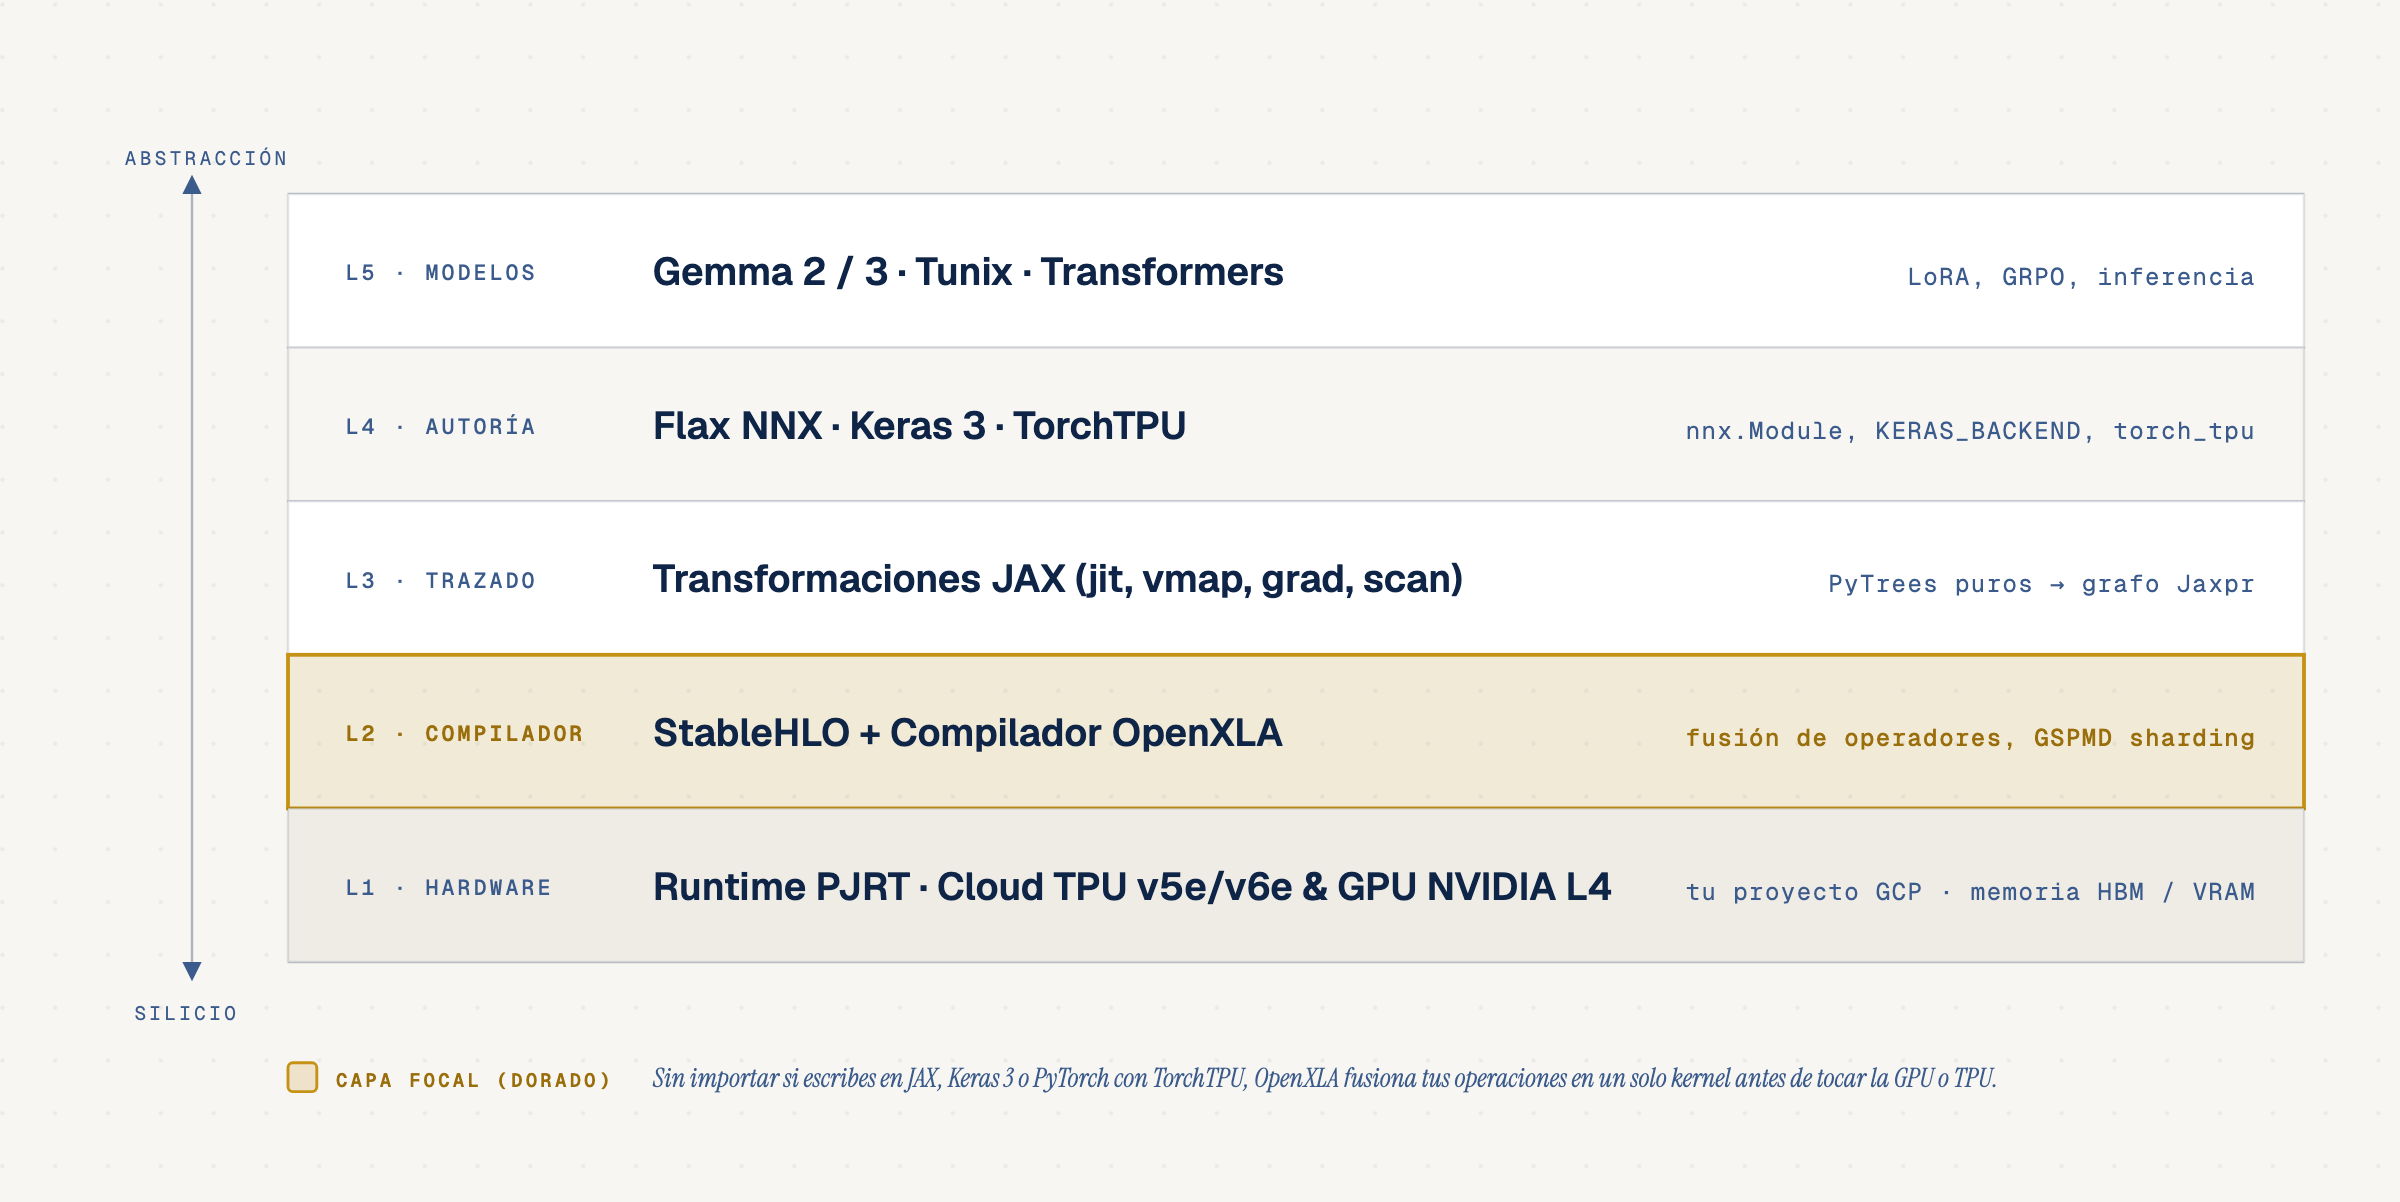
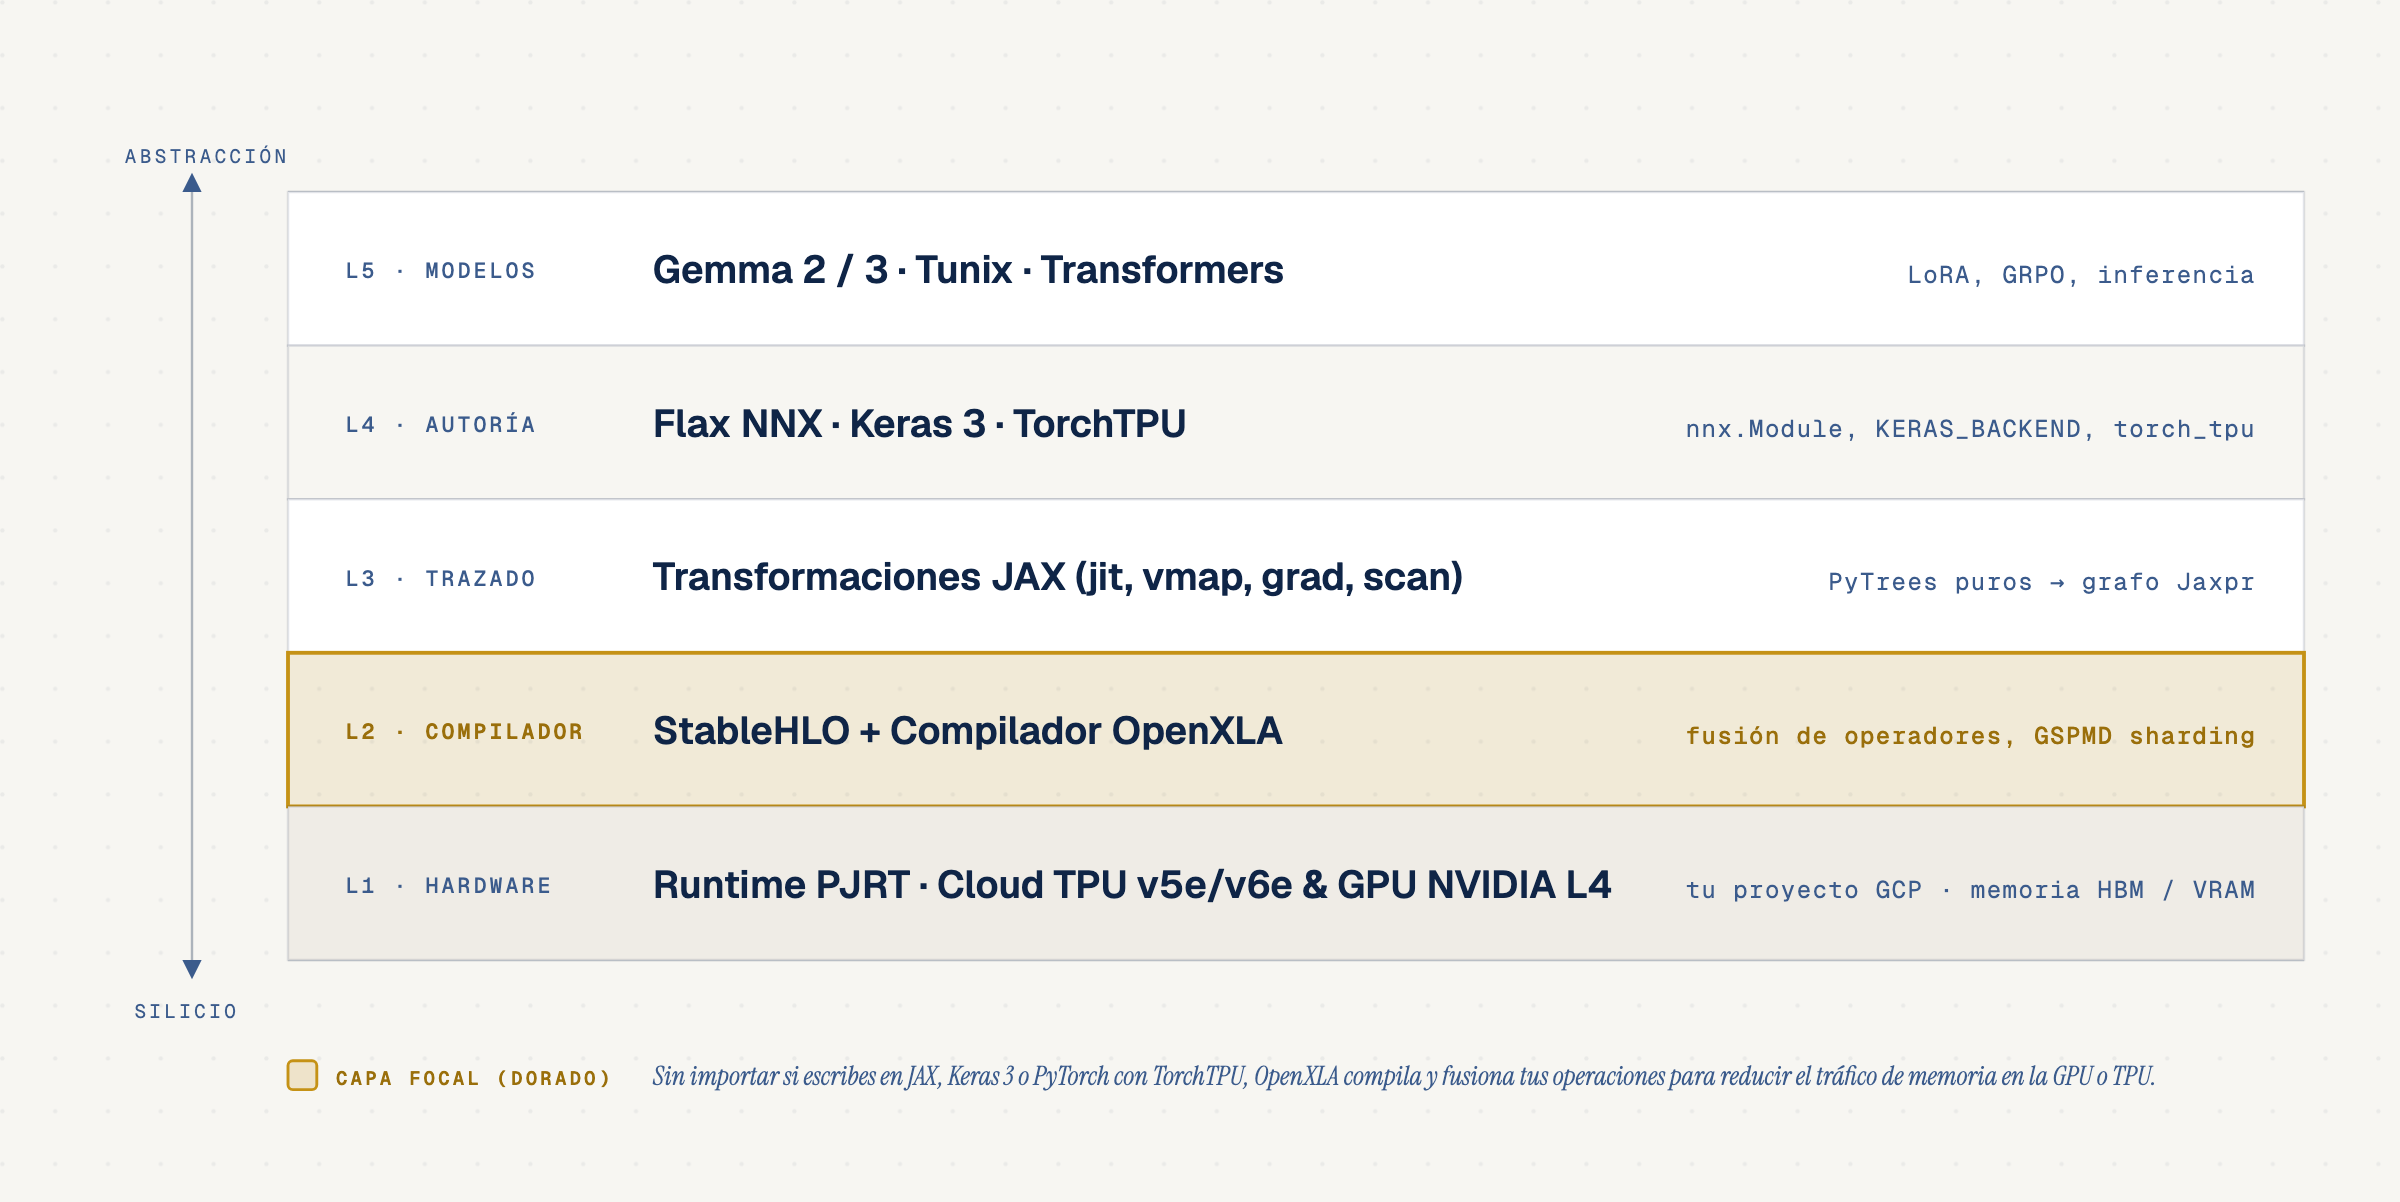
Diagramas: precisión en backends, fusión de operaciones y dispositivos simulados

diff --git a/diagrams/01-openxla-layer-stack.html b/diagrams/01-openxla-layer-stack.html
@@ -122,7 +122,7 @@
         <!-- Legend & Focal Caption Strip -->
         <rect x="120" y="442" width="12" height="12" rx="2" fill="rgba(197,146,22,0.18)" stroke="#C59216" stroke-width="1.2"/>
         <text x="140" y="452" fill="#9A6F0B" font-size="8" font-family="'Geist Mono', monospace" letter-spacing="0.16em" font-weight="600">CAPA FOCAL (DORADO)</text>
-        <text x="272" y="452" fill="#3B5B8C" font-size="11" font-family="'Instrument Serif', serif" font-style="italic">Sin importar si escribes en JAX, Keras 3 o PyTorch con TorchTPU, OpenXLA fusiona tus operaciones en un solo kernel antes de tocar la GPU o TPU.</text>
+        <text x="272" y="452" fill="#3B5B8C" font-size="11" font-family="'Instrument Serif', serif" font-style="italic">Sin importar si escribes en JAX, Keras 3 o PyTorch con TorchTPU, OpenXLA compila y fusiona tus operaciones para reducir el tráfico de memoria en la GPU o TPU.</text>
       </svg>
     </div>
   </div>

diff --git a/diagrams/02-decision-flowchart.html b/diagrams/02-decision-flowchart.html
@@ -131,7 +131,7 @@
         <!-- Diamond 2: Multi-backend portability? -->
         <polygon points="360,252 488,300 360,348 232,300" fill="#FFFFFF" stroke="#0F2547" stroke-width="1"/>
         <text x="360" y="296" fill="#0F2547" font-size="12" font-weight="600" font-family="'Geist', sans-serif" text-anchor="middle">¿Necesitas portabilidad entre</text>
-        <text x="360" y="312" fill="#0F2547" font-size="12" font-weight="600" font-family="'Geist', sans-serif" text-anchor="middle">JAX, PyTorch y TensorFlow?</text>
+        <text x="360" y="312" fill="#0F2547" font-size="12" font-weight="600" font-family="'Geist', sans-serif" text-anchor="middle">JAX, PyTorch y NumPy?</text>
 
         <!-- Outcome 2: Repo 3 (Keras 3) -->
         <rect x="660" y="272" width="320" height="56" rx="6" fill="#FFFFFF" stroke="#0F2547" stroke-width="1"/>

diff --git a/diagrams/03-gcp-ephemeral-arch.html b/diagrams/03-gcp-ephemeral-arch.html
@@ -123,7 +123,7 @@
         <!-- Node 1: Local XLA Multi-Device Sim -->
         <rect x="60" y="116" width="208" height="88" rx="6" fill="#FFFFFF" stroke="#0F2547" stroke-width="1"/>
         <text x="76" y="140" fill="#3B5B8C" font-size="8" font-family="'Geist Mono', monospace" letter-spacing="0.14em">SIMULACIÓN LOCAL</text>
-        <text x="76" y="162" fill="#0F2547" font-size="13" font-weight="600" font-family="'Geist', sans-serif">8 XLA Host Devices</text>
+        <text x="76" y="162" fill="#0F2547" font-size="13" font-weight="600" font-family="'Geist', sans-serif">4 XLA Host Devices</text>
         <text x="76" y="182" fill="#3B5B8C" font-size="9" font-family="'Geist Mono', monospace">verify_*.py + gitleaks</text>
 
         <!-- Node 2: Ephemeral Launcher -->
